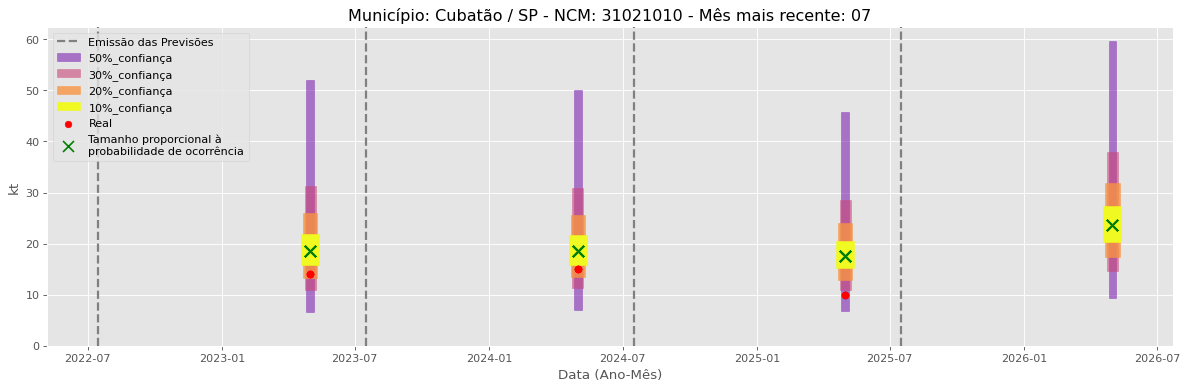
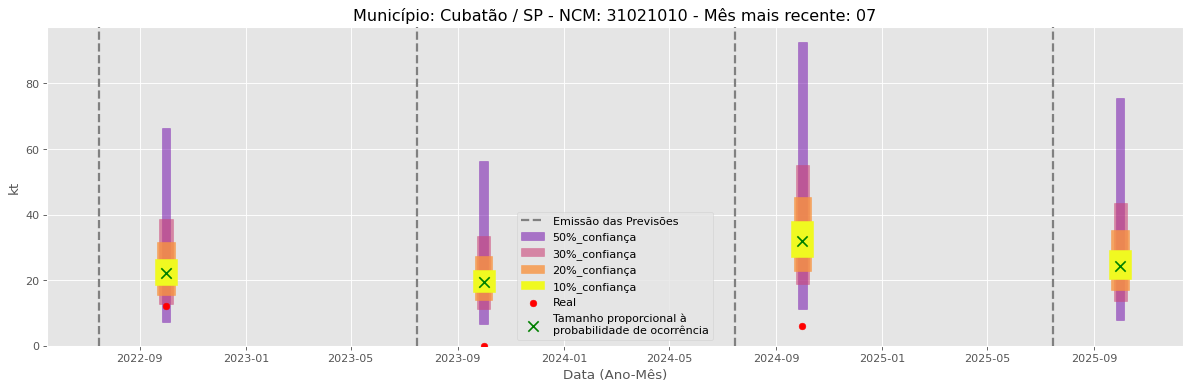
Atualização automática em lote

diff --git a/README.md b/README.md
@@ -15,6 +15,27 @@
 **[Home](https://quantimportbrazil.github.io/Sobre/)** | **[Selecionar Estado (UF)](https://quantimportbrazil.github.io/Unidades_Federativas/)**
 
 
+![Gráfico de Previsão](31021010.png)
+Fator de Influência em Destaque:
+Previsões emitidas no mês 8.
+Previsão Influenciada:
+- Município: Cubatão
+- Produto (NCM): Ureia, mesmo em solução aquosa, com teor de nitrogênio (azoto) superior a 45 %, em peso, calculado sobre o produto anidro no estado seco-31021010 
+- Mês previsto: 10
+
+
+Fator Influenciador: Quantidade em Comex
+- Unidade Federativa: SP
+- Grupo de Produto (SH2): Adubos (fertilizantes)-31 
+- Mês: 1
+- Unidade: sm_diff
+
+
+
+
+
+
+
 ![Gráfico de Previsão](31042090.png)
 Fator de Influência em Destaque:
 Previsões emitidas no mês 8.
